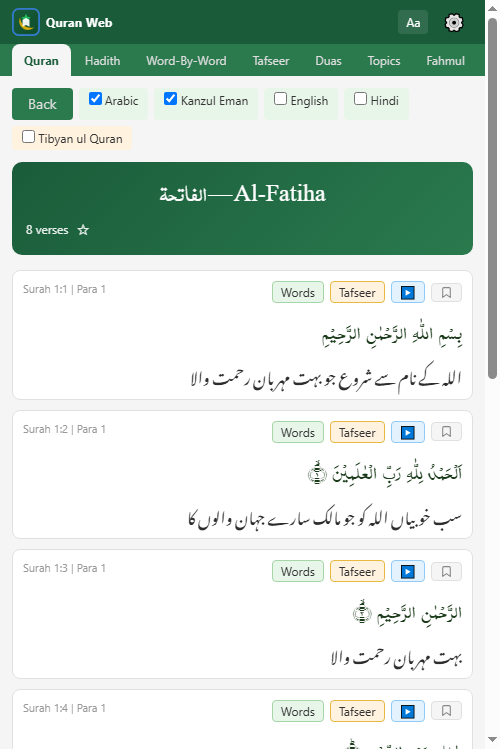
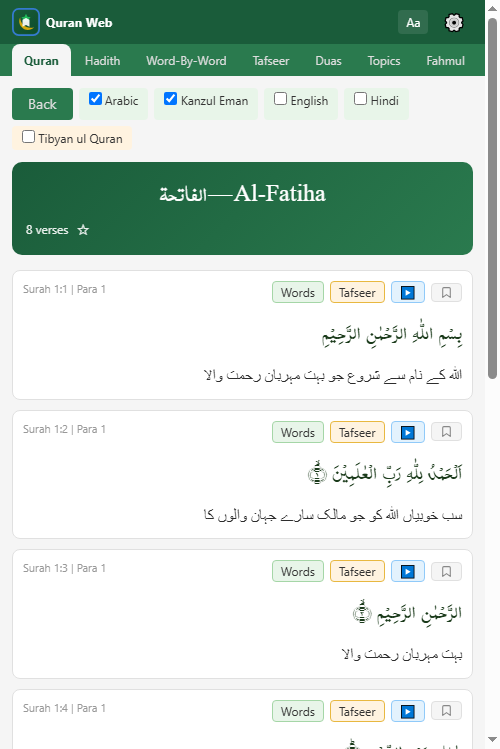
perf(tafseer): fetch the whole tafseer column in parallel + pre-warm on tab open
Cold tafseer search took ~6 s because 114 per-surah files were fetched in
batches of 12. Fetch them all at once and warm the column from the Tafseer tab,
so the first keystroke reuses an already-loaded corpus.

Changed region(s): [[0.36, 0.6756, 0.93, 0.7063], [0.39, 0.4913, 0.93, 0.522], [0.66, 0.8598, 0.93, 0.8905]]

diff --git a/src/app/api/quran/tafseer/search/route.ts b/src/app/api/quran/tafseer/search/route.ts
@@ -27,18 +27,16 @@ async function fetchJson<T>(req: Request, path: string): Promise<T | null> {
 async function loadColumn(req: Request, type: string): Promise<Map<number, SurahTafseer>> {
   if (cache && cache.type === type) return cache.data
   const data = new Map<number, SurahTafseer>()
-  // 114 surahs, a handful in flight at a time.
+  // Fetch all 114 surah files in parallel: they are small, edge-cached JSON
+  // files and the whole column is only ~7 MB. Batching them serially cost ~6 s
+  // on a cold function instance.
   const ids = Array.from({ length: 114 }, (_, i) => i + 1)
-  const CONCURRENCY = 12
-  for (let i = 0; i < ids.length; i += CONCURRENCY) {
-    const batch = ids.slice(i, i + CONCURRENCY)
-    const results = await Promise.all(
-      batch.map(id => fetchJson<SurahTafseer>(req, `/data/quran/tafseer/${id}/${type}.json`))
-    )
-    results.forEach((map, index) => {
-      if (map) data.set(batch[index], map)
-    })
-  }
+  const results = await Promise.all(
+    ids.map(id => fetchJson<SurahTafseer>(req, `/data/quran/tafseer/${id}/${type}.json`))
+  )
+  results.forEach((map, index) => {
+    if (map) data.set(ids[index], map)
+  })
   cache = { type, data }
   return data
 }
@@ -47,12 +45,21 @@ export async function GET(req: Request) {
   const url = new URL(req.url)
   const q = url.searchParams.get('q') || ''
   const type = url.searchParams.get('type') || ''
-  if (!q.trim()) return error('Search query required', 400)
+  const warm = url.searchParams.get('warm') === '1'
   if (!type) return error('Tafseer type required', 400)
 
   const colInfo = TAFSEER_COLUMNS.find(([c]) => c === type)
   if (!colInfo) return error('Unknown tafseer type', 400)
   const label = colInfo[1]
+
+  // Warm-up: the Tafseer tab calls this as soon as it opens so the corpus is
+  // already in memory by the time the user finishes typing.
+  if (warm) {
+    const warmed = await loadColumn(req, type)
+    return json({ ready: warmed.size }, 200, 60)
+  }
+
+  if (!q.trim()) return error('Search query required', 400)
 
   const typedWords = q.trim().split(/\s+/).filter(Boolean).slice(0, 8)
   const phrase = typedWords.join(' ')

diff --git a/src/app/quran-app.tsx b/src/app/quran-app.tsx
@@ -1201,6 +1201,13 @@ function TafseerTab() {
     }).catch(() => {})
   }, [])
 
+  // Pre-load the selected tafseer column on the server while the user reads,
+  // so the first keystroke in the search box does not pay the cold-start cost.
+  useEffect(() => {
+    if (!tfType) return
+    serverJson(`/quran/tafseer/search?warm=1&type=${encodeURIComponent(tfType)}`).catch(() => {})
+  }, [tfType])
+
   function load() {
     setData(null)
     setSearchResults([])
